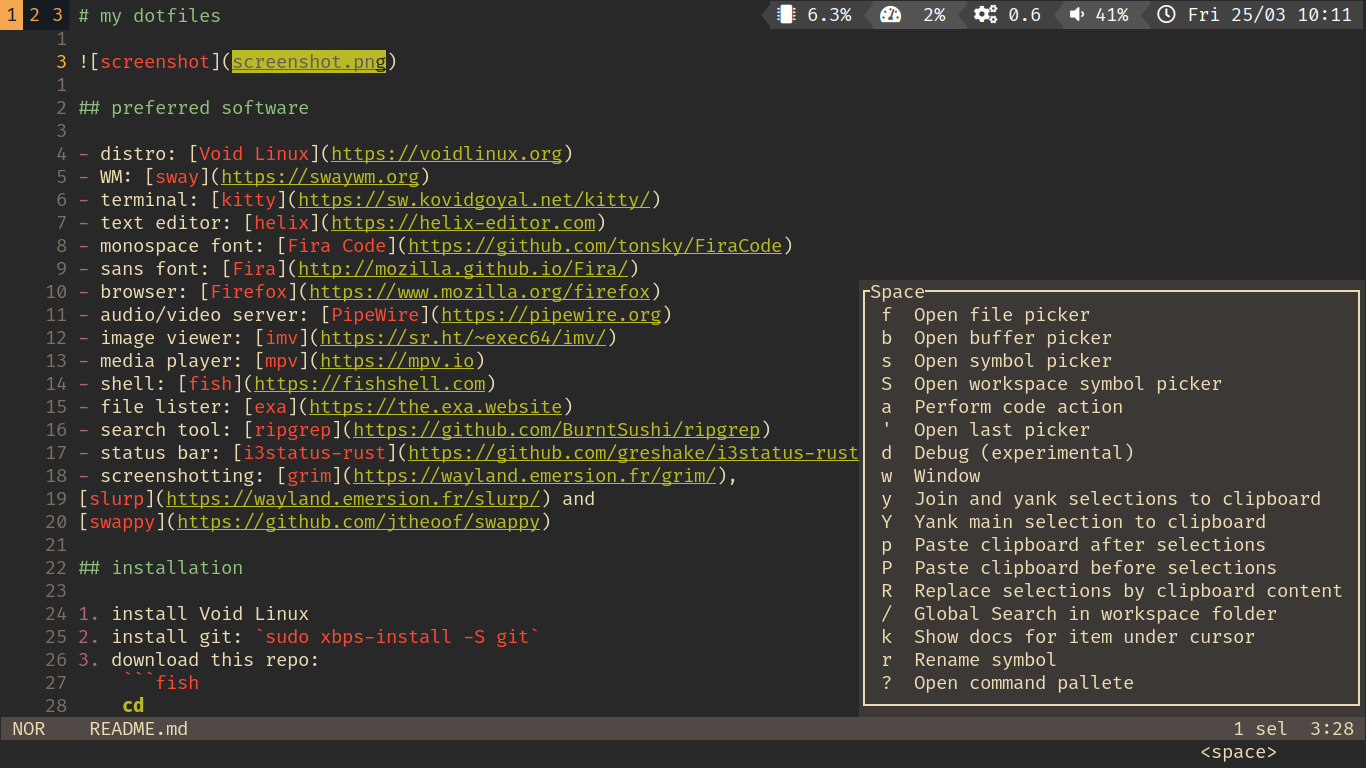
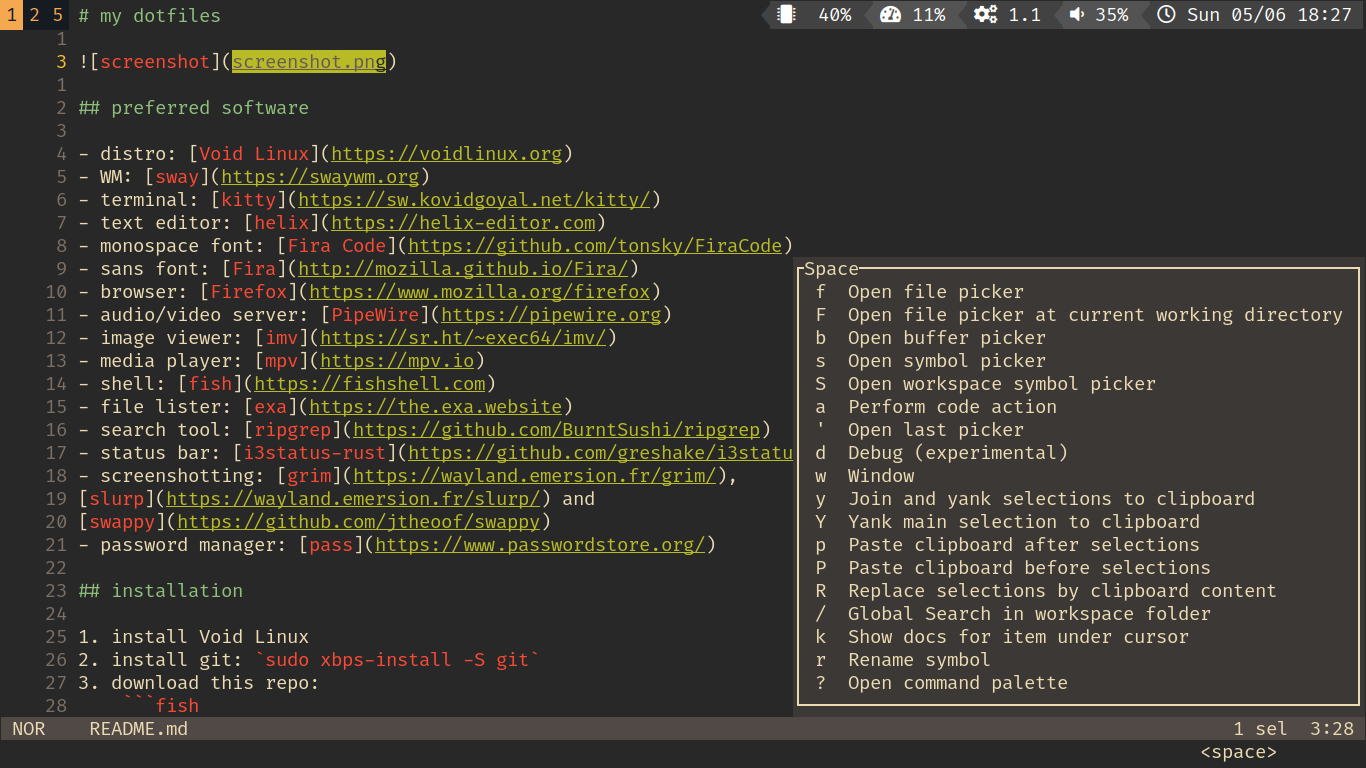
update

diff --git a/ff_configuration.md b/ff_configuration.md
@@ -5,13 +5,14 @@
 ### General
 
 - Startup/✅ Open previous windows and tabs
-- Files and Applications/✅ Always ask you where to save files
-- Language and Appearance/
+- Tabs/✅ Ctrl+Tab cycles through tabs in recently used order
+- Language and Appearance/Fonts/Advanced...
   - Serif and Sans-Serif: Fira Sans
   - Monospace: Fira Code
   - size: 18 or so
   - (may break some sites) ❎
   Allow pages to choose their own fonts, instead of your selections above
+- Files and Applications/Downloads/✅ Always ask you where to save files
 
 ### Search
 
@@ -27,33 +28,18 @@
 
 - [uBlock Origin](https://addons.mozilla.org/firefox/addon/ublock-origin)
 - [Dark Reader](https://addons.mozilla.org/firefox/addon/darkreader)
-(or another dark mode addon): eyes saver
-- [Tridactyl](https://addons.mozilla.org/firefox/addon/tridactyl-vim)
-(or another shortcuts addon): clicking buttons w/o "mouse", etc.
-- [Video Speed Controller](https://addons.mozilla.org/firefox/addon/videospeed):
-watching videos faster
-- [Tree Style Tab](https://addons.mozilla.org/firefox/addon/tree-style-tab):
-alternative tab management
-- [TST Colored Tabs](https://addons.mozilla.org/firefox/addon/tst-colored-tabs):
-hostname-based tab colorization (can be made darker)
+- [20-20-20 Rule](https://addons.mozilla.org/firefox/addon/20-20-20-rule)
+- [Video Speed Controller](https://addons.mozilla.org/firefox/addon/videospeed)
+- [Privacy Redirect](https://addons.mozilla.org/firefox/addon/privacy-redirect)
+
+## about:config
+
+- ✅ toolkit.legacyUserProfileCustomizations.stylesheets
 
 ## ~/.mozilla/firefox/*-default/chrome/userChrome.css
 
-- to disable Firefox native tabs bar:
-    ```css
-    #TabsToolbar {
-      display: none;
-    }
-    ```
-- to disable sidebar header:
-    ```css
-    #sidebar-header {
-      display: none;
-    }
-    ```
-- to disable mic/camera icon:
-    ```css
-    #webrtcIndicator {
-      display: none;
-    }
-    ```
+```css
+#webrtcIndicator {
+  display: none;
+}
+```

diff --git a/README.md b/README.md
@@ -21,6 +21,7 @@
 - screenshotting: [grim](https://wayland.emersion.fr/grim/),
 [slurp](https://wayland.emersion.fr/slurp/) and
 [swappy](https://github.com/jtheoof/swappy)
+- password manager: [pass](https://www.passwordstore.org/)
 
 ## installation
 
@@ -32,7 +33,6 @@
     git init
     git remote add origin https://git.sr.ht/~lincot/dotfiles
     git fetch
-    git checkout -f master
     ```
 4. review, edit and run `install.sh`
 5. review and edit the config files
